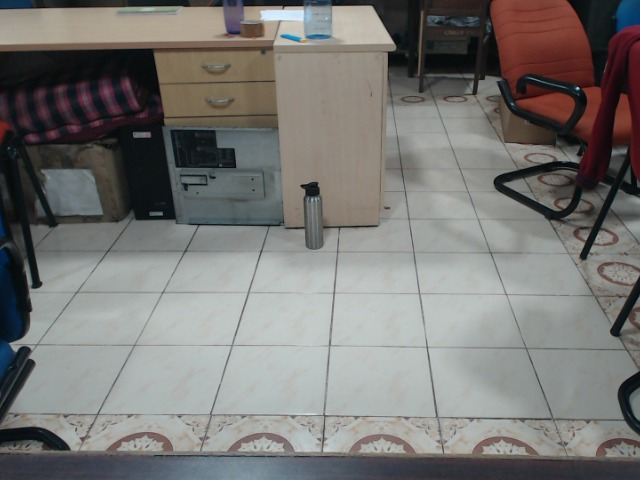
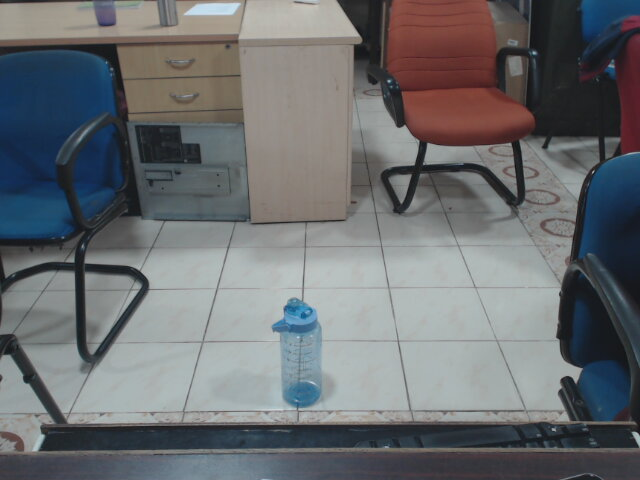
CATEGORY A

diff --git a/CATEGORY_A_Classical_Geometric_Methods/A5_cctv_geometry/a5_cctv_geometry.py b/CATEGORY_A_Classical_Geometric_Methods/A5_cctv_geometry/a5_cctv_geometry.py
@@ -1,5 +1,6 @@
 import math
 import argparse
+import os
 import cv2
 
 
@@ -129,7 +130,14 @@ if __name__ == "__main__":
         label = f"H:{h_real:.2f}m W:{w_real:.2f}m Dist:{dist:.2f}m"
         cv2.putText(img, label, (int(left_col), int(top_row) - 10), cv2.FONT_HERSHEY_SIMPLEX, 0.7, (0, 255, 0), 2)
 
-        cv2.imwrite(args.output, img)
+        output_dir = os.path.dirname(args.output)
+        if output_dir:
+            os.makedirs(output_dir, exist_ok=True)
+
+        success = cv2.imwrite(args.output, img)
+        if not success:
+            raise IOError(f"Failed to write image to '{args.output}'.")
+
         print(f"Focal length used: {focal_px:.2f} px")
         print(f"Results: Dist={dist:.2f}m, Height={h_real:.2f}m, Width={w_real:.2f}m")
         print(f"Saved to {args.output}")